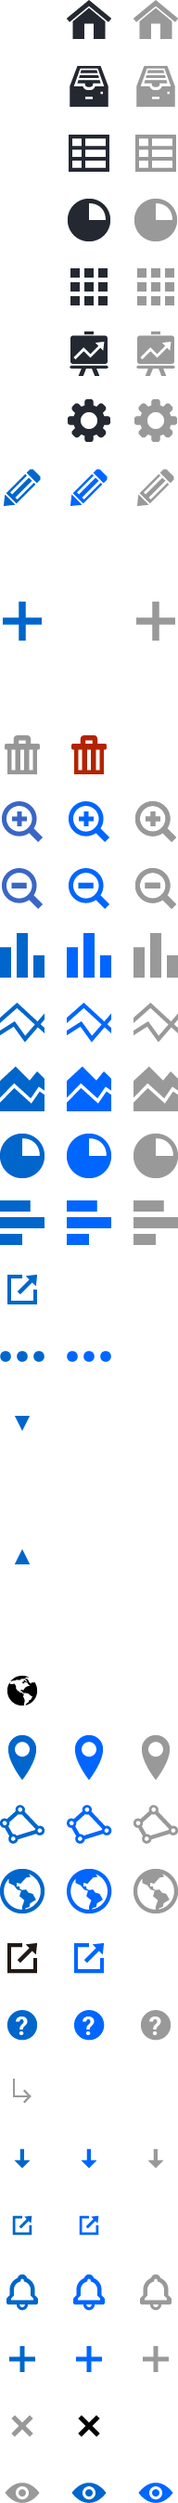
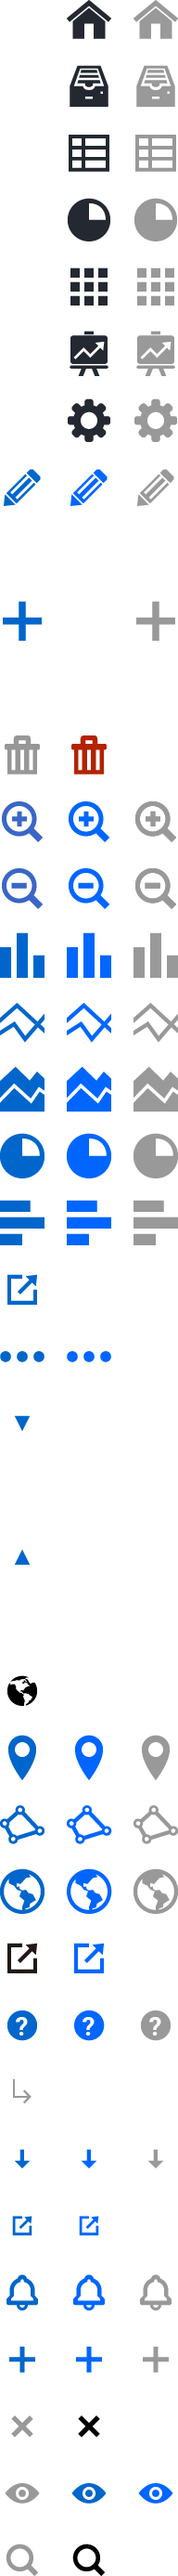
[Workspace] Ícono 'Buscar' agregado a sprite. Nuevas clases CSS para formularios inline.

diff --git a/core/media/core/styles/forms.css b/core/media/core/styles/forms.css
@@ -66,6 +66,18 @@ div.has-error,
 p.has-error,
 div.errorFormValidation{color:#f45f64;padding-top:7px;font-size:12px;text-shadow:0 1px 0 #fff;}
 
+/* Inputs with icons */
+.input-group-addon{float:left;margin-left:-27px;margin-top:2px;}
+
+/* Forms inline */
+.form-inline{}
+.form-inline .form-group{float:left;margin-right:15px;}
+.form-inline .form-group input{float:left;}
+
+.form-inline .form-group input[type=text],
+.form-inline .form-group input[type=password],
+.form-inline .form-group input[type=search]{width:300px;}
+
 /*LABEL*/
 label.labelField{text-align:right;font-size:14px;color:#767676;font-weight:normal;padding-top:7px;font-weight:bold;display:block;}
 .form label{font-size:14px;display:inline-block;height:30px;line-height:30px;}

diff --git a/core/media/core/styles/icons.css b/core/media/core/styles/icons.css
@@ -107,6 +107,9 @@
 .icon-eye:hover{background-position:-48px -1344px;}
 .icon-eye:active{background-position:-84px -1344px;}
 
+.icon-search-form{background-position:-12px -1380px;}
+.icon-search-form:hover{background-position:-48px -1380px;}
+
 /* Arrows */
 .icon-arrow-down-right{background-position:-12px -1128px;}
 
